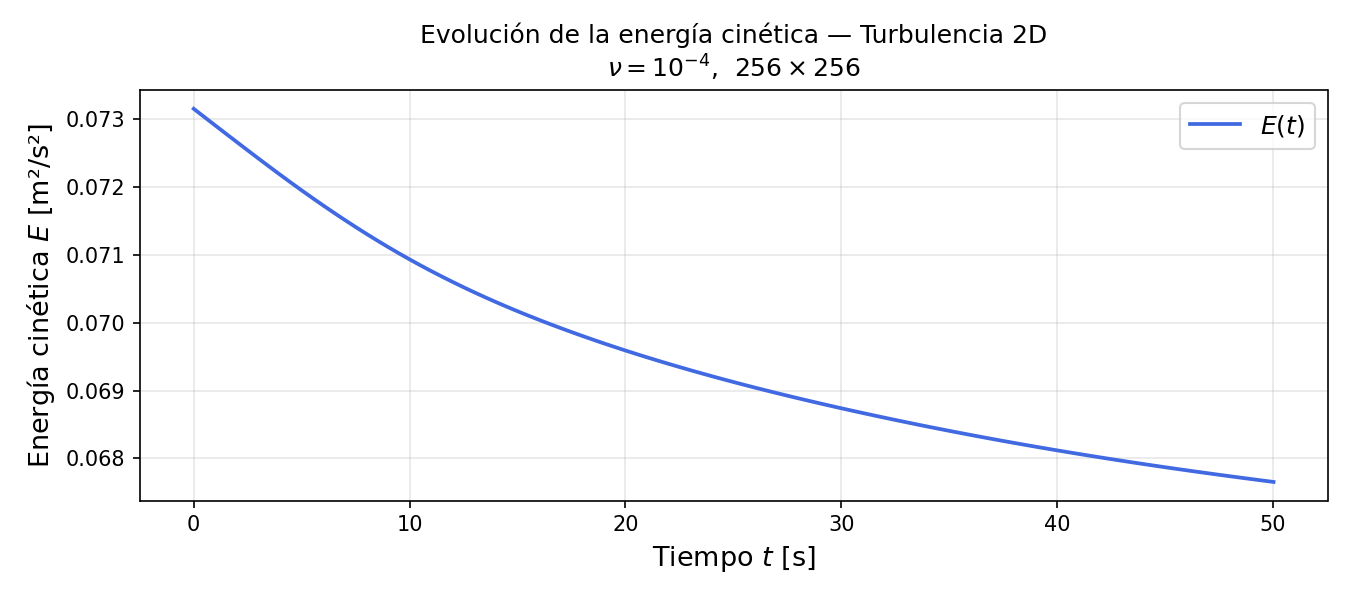
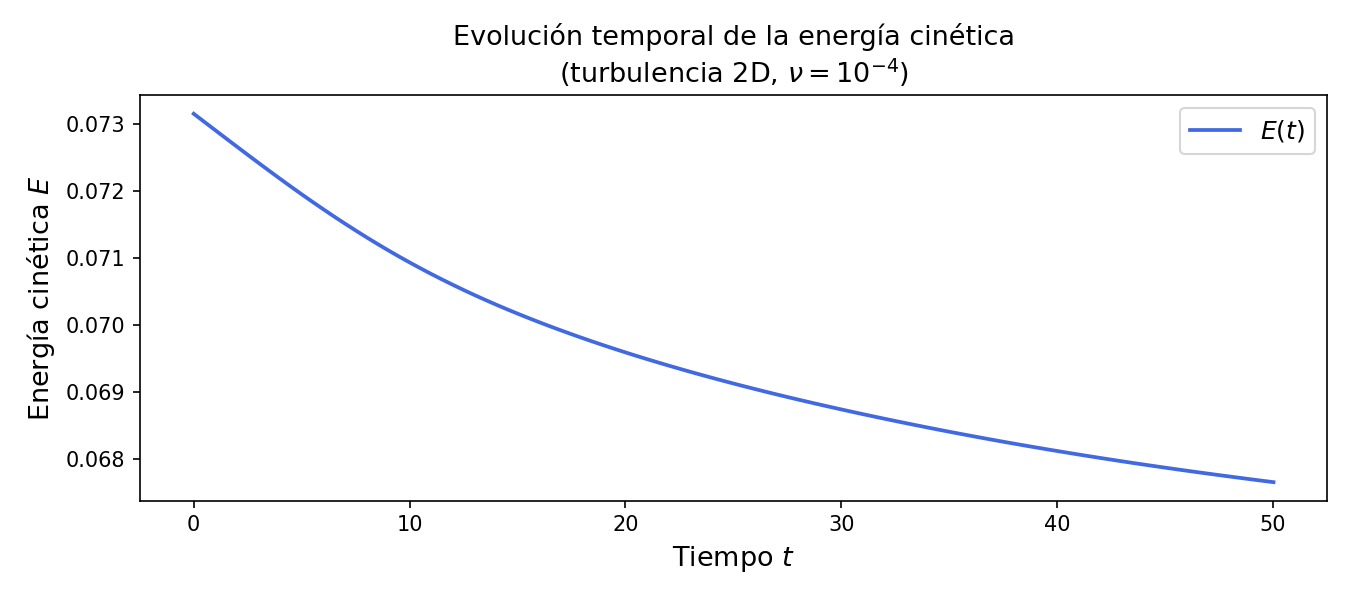
actualizacion en primer simulación

diff --git a/Code/simulation1.py b/Code/simulation1.py
@@ -2,8 +2,13 @@
 #           Librerías e importaciones          #
 ################################################
 
+import os
+import glob
 import numpy as np
+import matplotlib.pyplot as plt
 from fluidsim.solvers.ns2d.solver import Simul
+from fluidsim import load_sim_for_plot
+from fluidsim.util import load_state_phys_file
 
 #################################################
 #           Parametros de la simulacion        #
@@ -42,7 +47,7 @@ NOTAS:
 
 #Salidas:
 
-#Aqui se configura la frecuencia temporal de guardado
+#Se configura la frecuencia de guardado de Datos en segundos:
 #Para los campos fisicos (Vorticidad,velocidades bidimensionales):
 params.output.periods_save.phys_fields = 2.0
 #Medias espaciales (Energia cinetica,enstrofia):
@@ -87,3 +92,82 @@ sim.time_stepping.start()
 path_run = sim.output.path_run
 print(f"\n  Simulación completada.")
 print(f"  Resultados en: {path_run}")
+
+# 'load' reconstruye el objeto simulación desde los archivos en disco, sin necesidad de correrla de nuevo.
+sim_loaded = load_sim_for_plot(path_run)
+print("Simulación cargada desde:", path_run)
+
+## EVOLUCIÓN TEMPORAL DE LA ENERGÍA
+# Cargar los datos de medias espaciales
+means = sim_loaded.output.spatial_means.load()
+
+# 'means' es un diccionario con claves 't', 'E', 'Z', etc.
+t  = means['t']    # vector de tiempos
+E  = means['E']    # energía cinética total E(t) = ½∫(u²+v²)dxdy
+
+fig, ax = plt.subplots(figsize=(9, 4))
+ax.plot(t, E, color='royalblue', linewidth=1.8, label='$E(t)$')
+ax.set_xlabel('Tiempo $t$', fontsize=13)
+ax.set_ylabel('Energía cinética $E$', fontsize=13)
+ax.set_title('Evolución temporal de la energía cinética\n'
+             r'(turbulencia 2D, $\nu=10^{-4}$)', fontsize=13)
+ax.legend(fontsize=12)
+plt.tight_layout()
+plt.savefig('exp1_energia.png', dpi=150)
+plt.show()
+
+print(f"Energía inicial: {E[0]:.4f}")
+print(f"Energía final:   {E[-1]:.4f}")
+print(f"Fracción conservada: {E[-1]/E[0]*100:.1f}%")
+
+## CAMPO DE VORTICIDAD
+# Obtener tiempos disponibles desde los nombres de archivo
+nc_files = sorted(glob.glob(os.path.join(path_run, 'state_phys_t*.nc')))
+
+times_saved = []
+for f in nc_files:
+    base = os.path.basename(f)
+    t_str = base.replace('state_phys_t', '').replace('.nc', '')
+    try:
+        times_saved.append(float(t_str))
+    except ValueError:
+        pass
+
+times_saved = sorted(times_saved)
+print("Tiempos guardados disponibles:", times_saved)
+
+# Seleccionar 4 instantes distribuidos en la simulación
+n = len(times_saved)
+indices = [0, n//4, n//2, n-1]
+
+fig, axes = plt.subplots(1, 4, figsize=(18, 4.5))
+
+for ax, idx in zip(axes, indices):
+    t_snap = times_saved[idx]
+
+    # Cargar el estado físico en ese instante
+    sim_snap = load_state_phys_file(path_run, t_approx=t_snap, hide_stdout=True)
+    rot = sim_snap.state.get_var('rot')
+
+    vmax = np.percentile(np.abs(rot), 98)
+
+    im = ax.imshow(
+        rot.T,
+        origin='lower',
+        cmap='RdBu_r',
+        vmin=-vmax, vmax=vmax,
+        extent=[0, params.oper.Lx, 0, params.oper.Ly]
+    )
+    ax.set_title(f'$t = {t_snap:.1f}$', fontsize=12)
+    ax.set_xlabel('$x$')
+    ax.set_ylabel('$y$')
+    plt.colorbar(im, ax=ax, shrink=0.8, label='$\\omega$')
+
+fig.suptitle(
+    'Evolución del campo de vorticidad $\\omega(x,y,t)$\n'
+    'Rojo = vorticidad positiva (anticiclónica)  |  Azul = negativa (ciclónica)',
+    fontsize=12
+)
+plt.tight_layout()
+plt.savefig('exp1_vorticidad_snapshots.png', dpi=150)
+plt.show()
